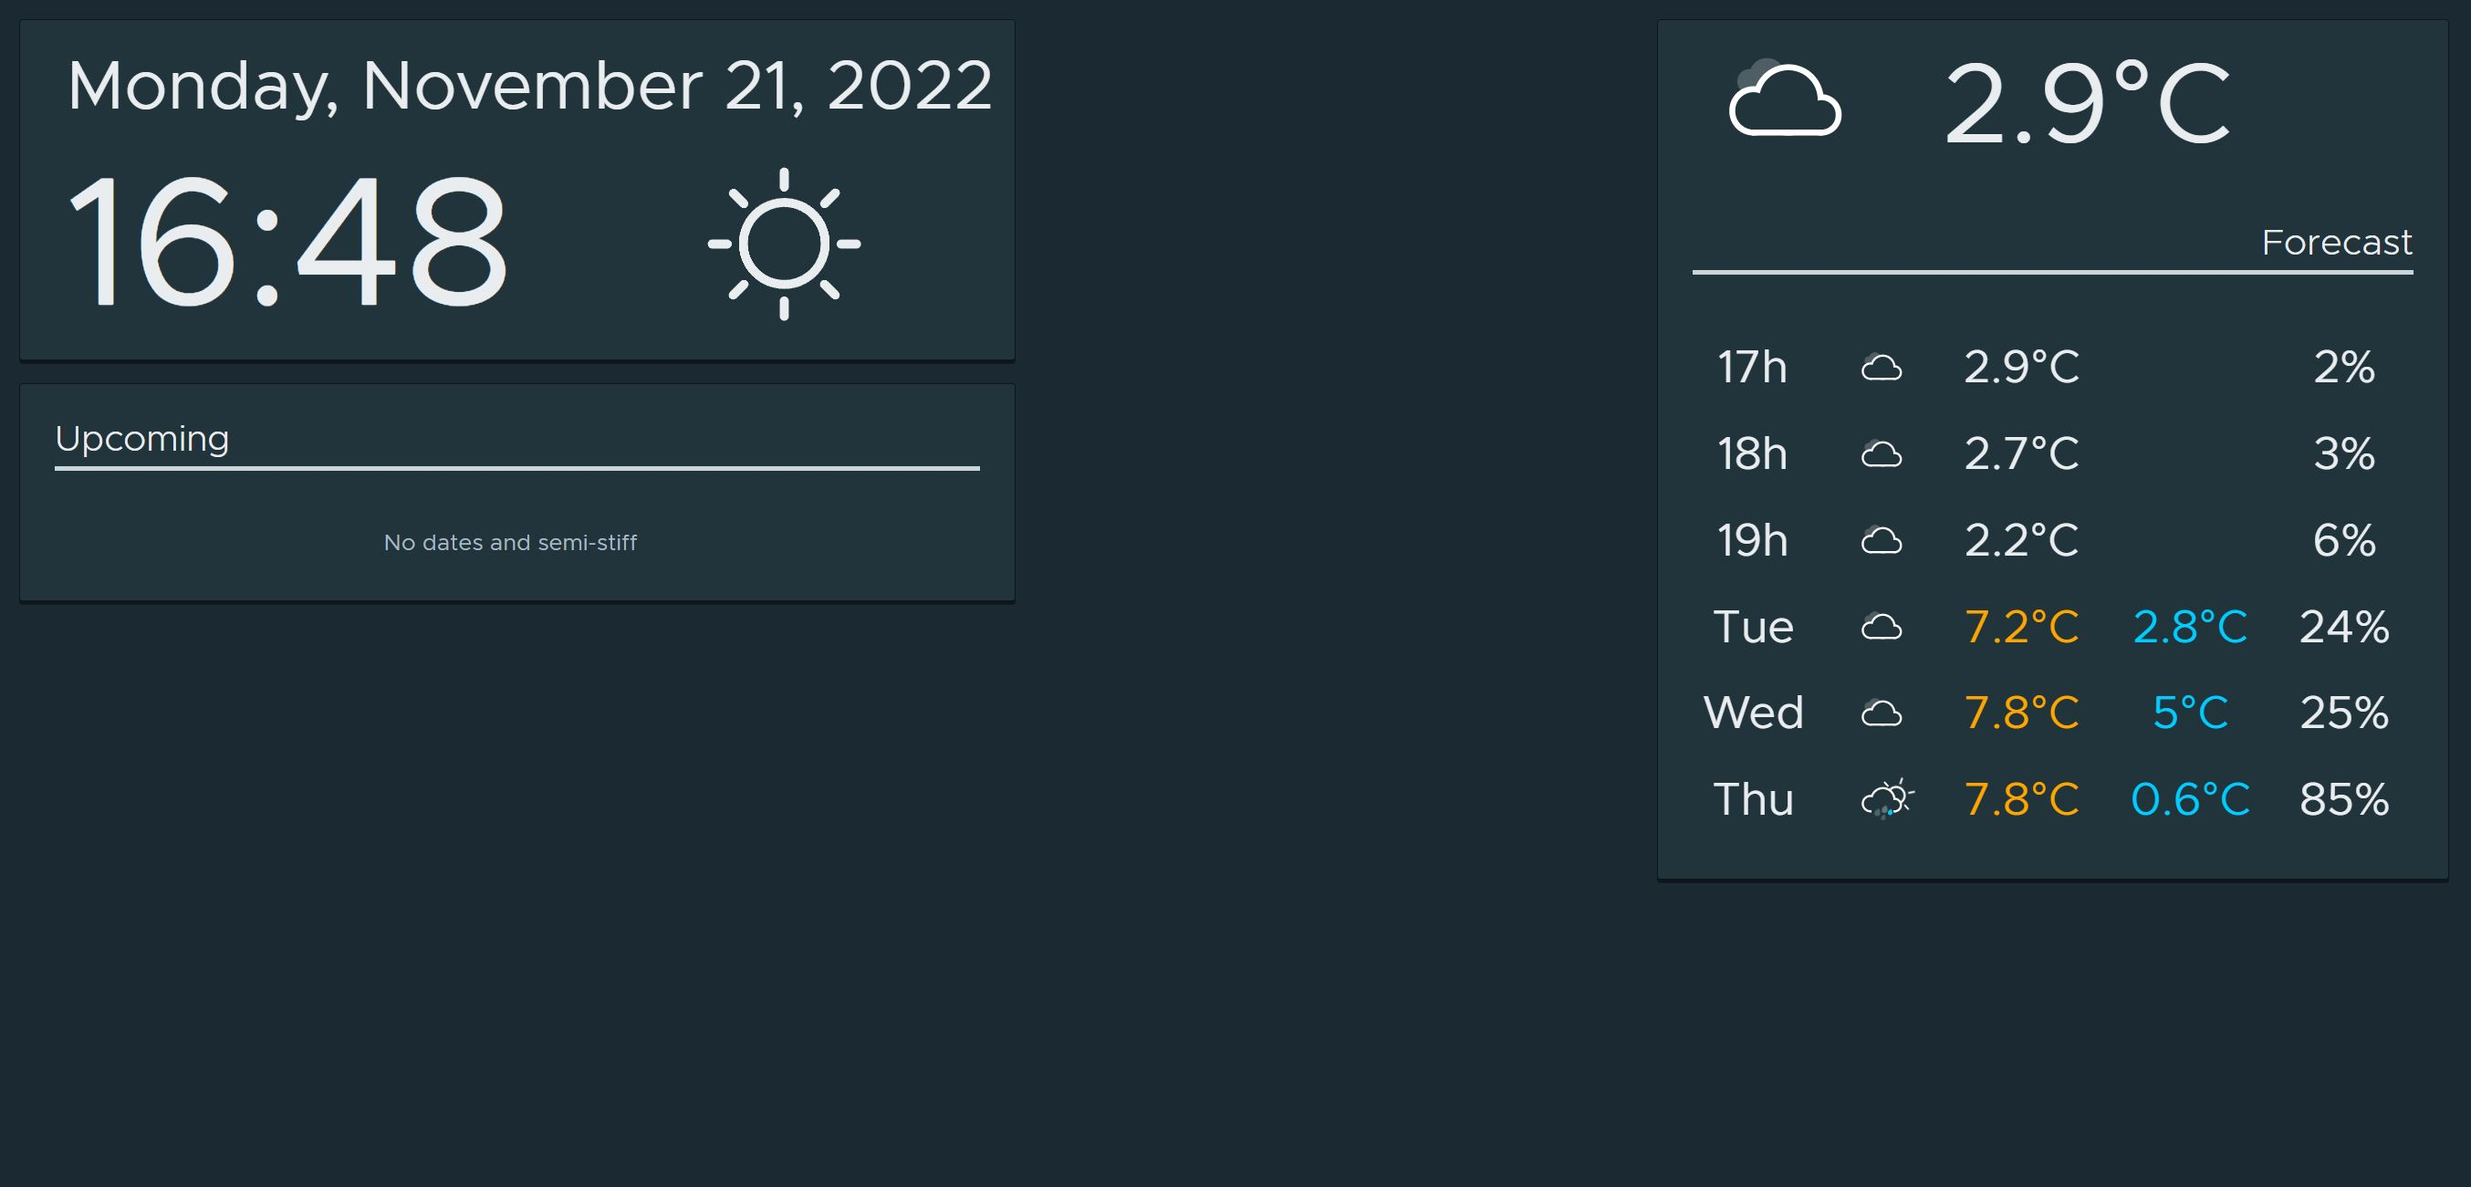
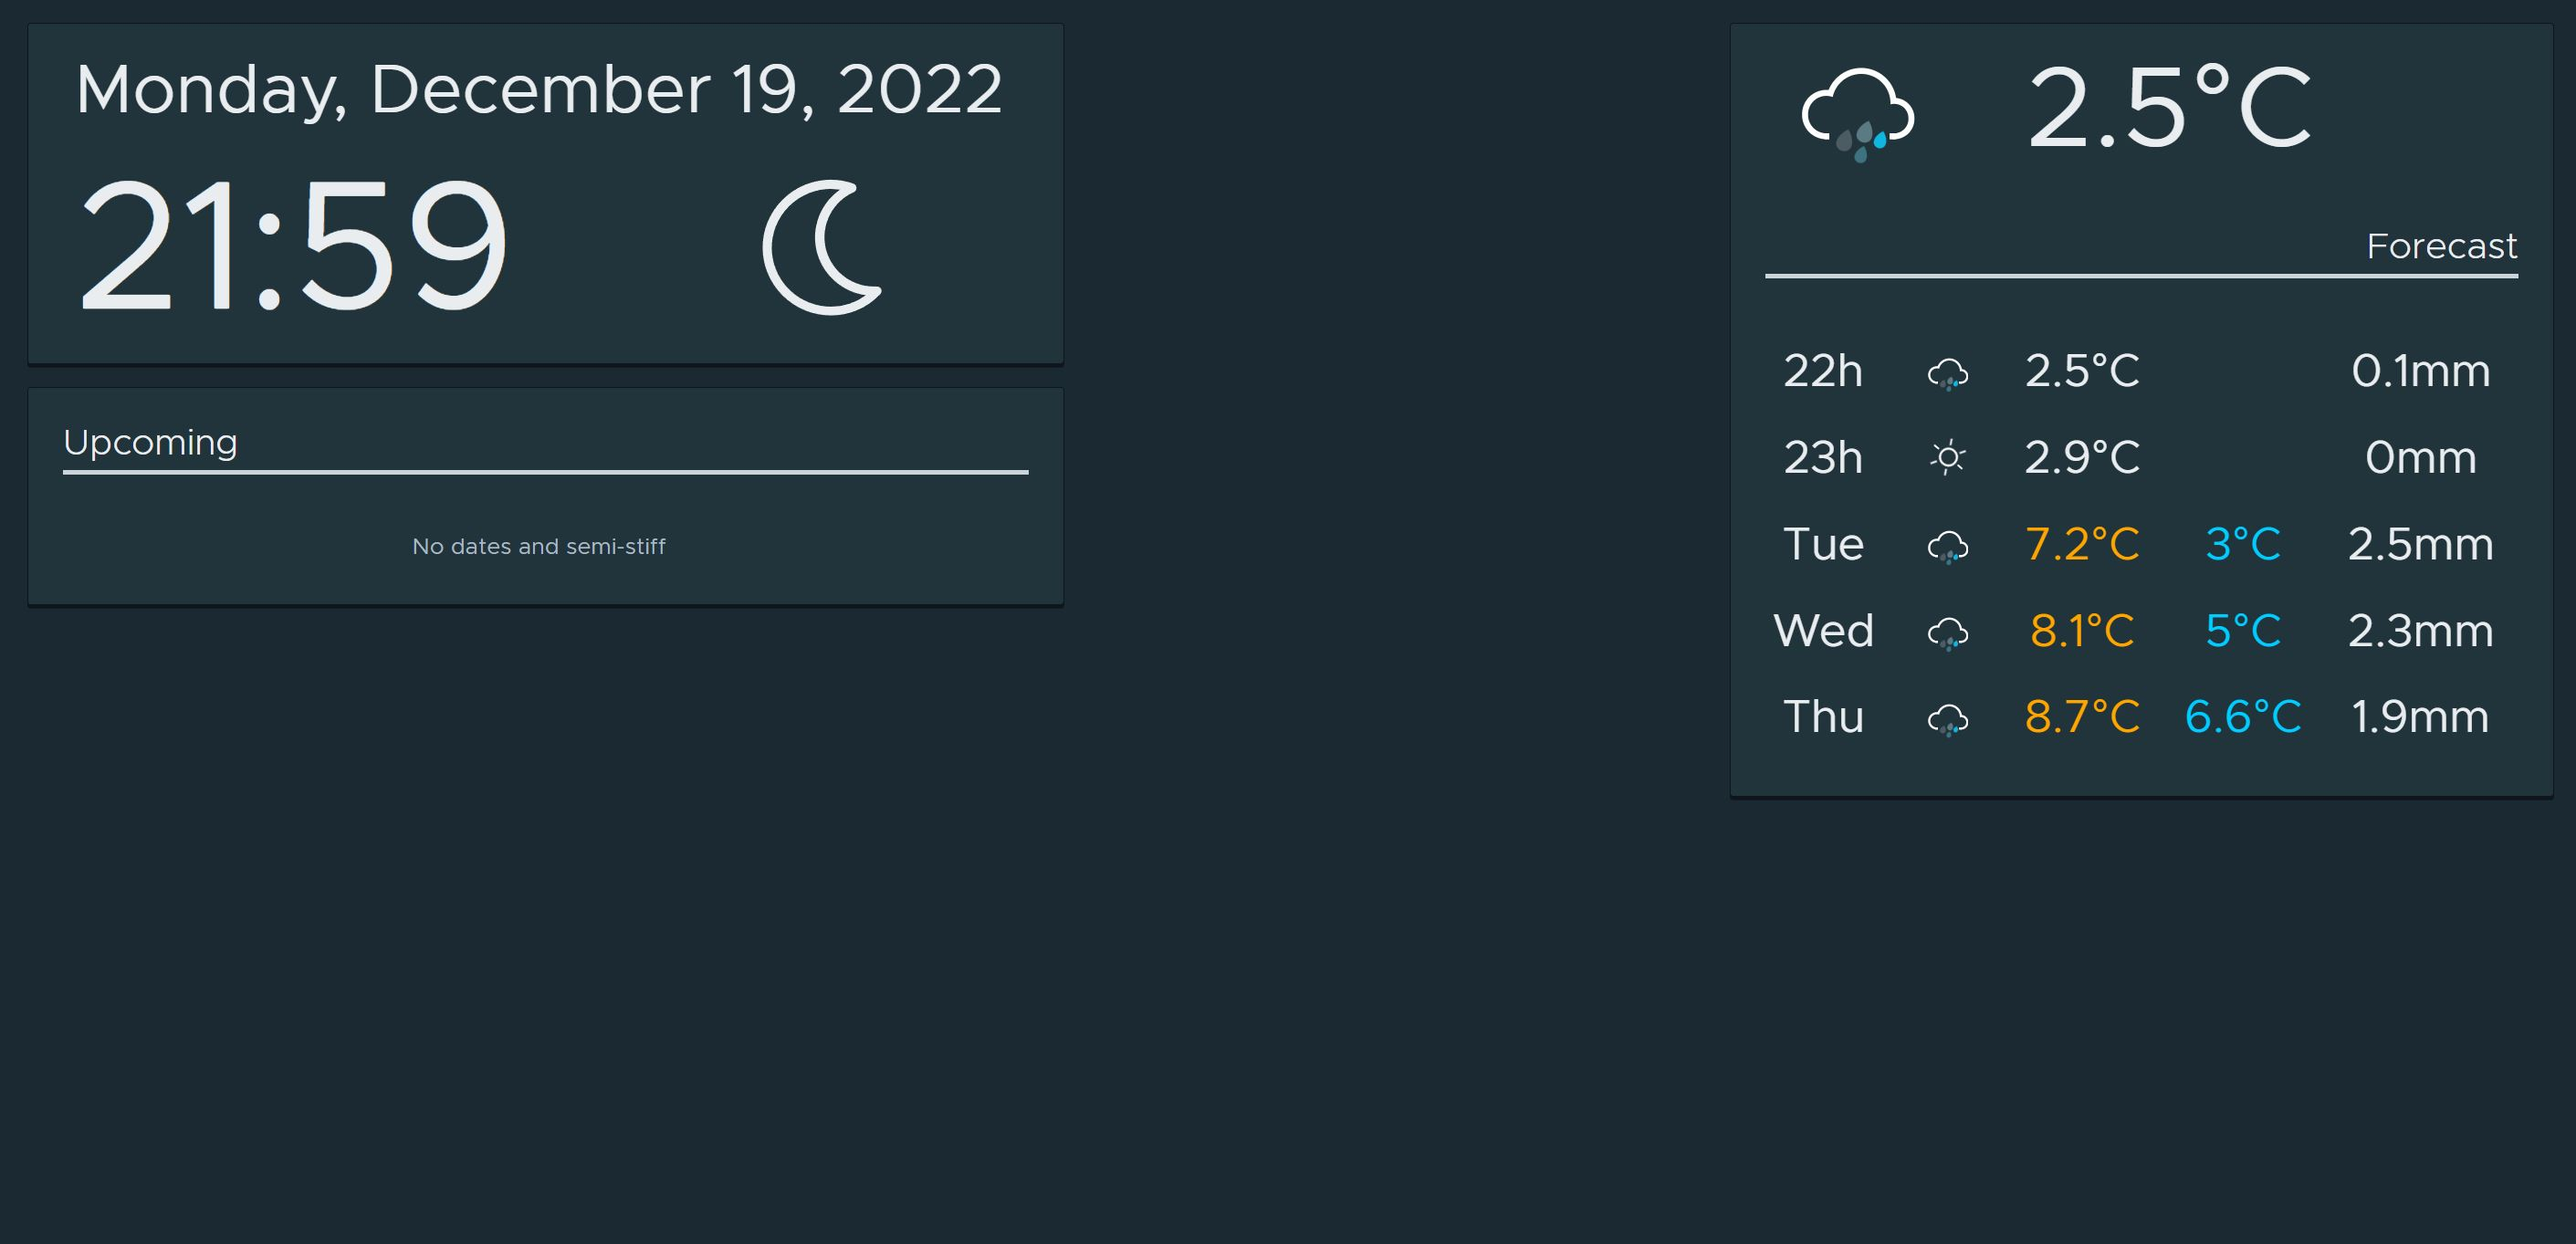
feat(api): move from accu weather api to the open meteo api

diff --git a/src/app/components/weather-icon/weather-icon.component.ts b/src/app/components/weather-icon/weather-icon.component.ts
@@ -6,34 +6,34 @@ import { Component, Input } from '@angular/core';
     <div
       class="icon"
       [ngClass]="{
-        sunny: iconCode >= 1 && iconCode <= 5 || iconCode == 30,
-        cloudy: iconCode >= 6 && iconCode <= 11 || iconCode >= 35 && iconCode <= 38,
-        rainy: iconCode == 12 || iconCode == 18,
-        'sun-shower': iconCode == 13 || iconCode == 14,
-        'thunder-storm': iconCode > 14 && iconCode <= 17,
-        flurries: iconCode >= 19 && iconCode <= 29
+        sunny: iconCode >= 0 && iconCode <= 3,
+        cloudy: iconCode >= 45 && iconCode <= 48,
+        rainy: iconCode >= 61 && iconCode <= 67 || iconCode >= 80 && iconCode <= 82,
+        'sun-shower': iconCode >= 51 && iconCode <= 57,
+        'thunder-storm': iconCode >= 95 && iconCode <= 99,
+        flurries: iconCode >= 71 && iconCode <= 77 || iconCode >= 85 && iconCode <= 86
       }"
       [style.font-size]="size"
     >
-      <div class="sun" *ngIf="iconCode >= 1 && iconCode <= 5 || iconCode == 30">
+      <div class="sun" *ngIf="iconCode >= 0 && iconCode <= 3">
         <div class="rays"></div>
       </div>
-      <div class="cloud" *ngIf="iconCode >= 6 && iconCode <= 11 || iconCode >= 35 && iconCode <= 38"></div>
-      <div class="cloud" *ngIf="iconCode >= 6 && iconCode <= 11 || iconCode >= 35 && iconCode <= 38"></div>
-      <div class="cloud" *ngIf="iconCode == 12 || iconCode == 18"></div>
-      <div class="rain" *ngIf="iconCode == 12 || iconCode == 18"></div>
-      <div class="cloud" *ngIf="iconCode == 13 || iconCode == 14"></div>
-      <div class="sun" *ngIf="iconCode == 13 || iconCode == 14">
+      <div class="cloud" *ngIf="iconCode >= 45 && iconCode <= 57"></div>
+      <div class="cloud" *ngIf="iconCode >= 45 && iconCode <= 57"></div>
+      <div class="cloud" *ngIf="iconCode >= 61 && iconCode <= 67 || iconCode >= 80 && iconCode <= 82"></div>
+      <div class="rain" *ngIf="iconCode >= 61 && iconCode <= 67 || iconCode >= 80 && iconCode <= 82"></div>
+      <div class="cloud" *ngIf="iconCode >= 51 && iconCode <= 57"></div>
+      <div class="sun" *ngIf="iconCode >= 51 && iconCode <= 57">
         <div class="rays"></div>
       </div>
-      <div class="rain" *ngIf="iconCode == 13 || iconCode == 14"></div>
-      <div class="cloud" *ngIf="iconCode > 14 && iconCode <= 17"></div>
-      <div class="lightning" *ngIf="iconCode > 14 && iconCode <= 17">
+      <div class="rain" *ngIf="iconCode >= 51 && iconCode <= 57"></div>
+      <div class="cloud" *ngIf="iconCode >= 95 && iconCode <= 99"></div>
+      <div class="lightning" *ngIf="iconCode >= 95 && iconCode <= 99">
         <div class="bolt"></div>
         <div class="bolt"></div>
       </div>
-      <div class="cloud" *ngIf="iconCode >= 19 && iconCode <= 29"></div>
-      <div class="snow" *ngIf="iconCode >= 19 && iconCode <= 29">
+      <div class="cloud" *ngIf="iconCode >= 71 && iconCode <= 77 || iconCode >= 85 && iconCode <= 86"></div>
+      <div class="snow" *ngIf="iconCode >= 71 && iconCode <= 77 || iconCode >= 85 && iconCode <= 86">
         <div class="flake"></div>
         <div class="flake"></div>
       </div>

diff --git a/src/app/app.component.ts b/src/app/app.component.ts
@@ -1,7 +1,7 @@
 import { formatDate } from '@angular/common';
 import { Component, OnDestroy, OnInit } from '@angular/core';
 
-import { Subscription, timer, zip } from 'rxjs';
+import { Subscription, timer } from 'rxjs';
 import { AppService } from './app.service';
 import { AppUtil } from './app.util';
 
@@ -34,13 +34,8 @@ export class AppComponent implements OnInit, OnDestroy {
     });
 
     this.weatherPeriodic = timer(0, 1000 * 60 * 60).subscribe(() => {
-      zip(
-        this.appService.getWeatherDayData(),
-        this.appService.getWeatherHoursData()
-      ).subscribe({
-        next: (data) => {
-          this.transformWeatherData(this.parseWeatherData(data));
-        },
+      this.appService.getWeatherData().subscribe({
+        next: (data) => this.transformWeatherData(this.parseWeatherData(data)),
         error: (error) => console.error(error),
       });
     });
@@ -64,23 +59,29 @@ export class AppComponent implements OnInit, OnDestroy {
       daysForecast: new Array(),
       hoursForecast: new Array(),
     };
-    for (const elem of data[0].DailyForecasts) {
+
+    const now = new Date();
+    for (var i = 0; i < data.daily.time.length; i++) {
       result.daysForecast.push({
-        timestamp: elem.Date,
-        minimumTemp: elem.Temperature.Minimum.Value,
-        maximumTemp: elem.Temperature.Maximum.Value,
-        icon: elem.Day.Icon,
-        rainProb: elem.Day.RainProbability || 0,
+        timestamp: data.daily.time[i],
+        minimumTemp: data.daily.temperature_2m_min[i],
+        maximumTemp: data.daily.temperature_2m_max[i],
+        icon: data.daily.weathercode[i],
+        rain: data.daily.rain_sum[i],
       });
     }
 
-    for (const elem of data[1]) {
-      result.hoursForecast.push({
-        timestamp: elem.DateTime,
-        temperature: elem.Temperature.Value,
-        icon: elem.WeatherIcon,
-        rainProb: elem.RainProbability || 0,
-      });
+    // 24, because in the time array, the first 24 elements are timestamps from the current day, the can be skipped
+    for (var i = 0; i < 24; i++) {
+      const time = new Date(data.hourly.time[i]);
+      if (time.getHours() > now.getHours() && time.getHours() <= now.getHours() + 3) {
+        result.hoursForecast.push({
+          timestamp: time,
+          temperature: data.hourly.temperature_2m[i],
+          icon: data.hourly.weathercode[i],
+          rain: data.hourly.rain[i],
+        });
+      }
     }
 
     return result;
@@ -88,7 +89,7 @@ export class AppComponent implements OnInit, OnDestroy {
 
   private transformWeatherData(data: any) {
     this.daysForecast = data.daysForecast.slice(1, 4);
-    this.hoursForecast = data.hoursForecast.slice(0, 3);
+    this.hoursForecast = data.hoursForecast;
 
     const currentTempDate = this.hoursForecast[0];
     this.currentTemperature = currentTempDate.temperature;
@@ -107,6 +108,6 @@ export class AppComponent implements OnInit, OnDestroy {
       });
     }
 
-    this.appointments = this.util.sortAppointments(temp);
+    // this.appointments = this.util.sortAppointments(temp);
   }
 }

diff --git a/src/app/app.service.ts b/src/app/app.service.ts
@@ -9,19 +9,22 @@ declare var google: any;
 
 @Injectable()
 export class AppService {
-  private readonly ACCU_WEATHER_DAY_FORECAST = `${environment.accuWeatherBaseURL}/daily/5day/${environment.accuWeatherCityKey}?apikey=${environment.accuWeatherApiKey}&metric=true&details=true`;
-  private readonly ACCU_WEATHER_HOURS_FORECAST = `${environment.accuWeatherBaseURL}/hourly/12hour/${environment.accuWeatherCityKey}?apikey=${environment.accuWeatherApiKey}&metric=true&details=true`;
+  private readonly OPEN_METEO_FORECAST;
 
   private googleTokenClient!: any;
 
-  constructor(private http: HttpClient) {}
+  private todayStart;
+  private todayEnd;
 
-  getWeatherDayData(): Observable<any> {
-    return this.http.get(this.ACCU_WEATHER_DAY_FORECAST);
+  constructor(private http: HttpClient) {
+    this.todayStart = new Date();
+    this.todayEnd = new Date();
+
+    this.OPEN_METEO_FORECAST = `https://api.open-meteo.com/v1/forecast?latitude=${environment.openMeteoLatitude}&longitude=${environment.openMeteoLongitude}&hourly=temperature_2m,rain,weathercode&daily=weathercode,temperature_2m_max,temperature_2m_min,rain_sum&timezone=Europe%2FBerlin&start_date=${this.todayStart.toISOString().substring(0, 10)}&end_date=${new Date(this.todayStart.getTime() + 1000 * 60 * 60 * 24 * 3).toISOString().substring(0, 10)}`;  
   }
 
-  getWeatherHoursData(): Observable<any> {
-    return this.http.get(this.ACCU_WEATHER_HOURS_FORECAST);
+  getWeatherData(): Observable<any> {
+    return this.http.get(this.OPEN_METEO_FORECAST);
   }
 
   async getTodayAppointments(): Promise<any> {
@@ -42,18 +45,15 @@ export class AppService {
           continue;
         }
         // Create a request for each calendar to retrieve all events of the day and add it to a bulk action
-        const todayStart = new Date();
-        const todayEnd = new Date();
-
-        todayStart.setHours(0);
-        todayStart.setMinutes(0);
-        todayEnd.setHours(23);
-        todayEnd.setMinutes(59);
+        this.todayStart.setHours(0);
+        this.todayStart.setMinutes(0);
+        this.todayEnd.setHours(23);
+        this.todayEnd.setMinutes(59);
 
         const getEvents = gapi.client.calendar.events.list({
           calendarId: c.id,
-          timeMin: todayStart.toISOString(),
-          timeMax: todayEnd.toISOString(),
+          timeMin: this.todayStart.toISOString(),
+          timeMax: this.todayEnd.toISOString(),
           singleEvents: true,
           orderBy: 'startTime',
         });

diff --git a/src/app/app.component.html b/src/app/app.component.html
@@ -67,14 +67,14 @@
                                     <td><weather-icon [iconCode]="hour.icon" [size]="'0.25rem'"></weather-icon></td>
                                     <td><span class="weather-day-time-label">{{hour.temperature}}°C</span></td>
                                     <td></td>
-                                    <td><span class="weather-day-time-label">{{hour.rainProb}}%</span></td>
+                                    <td><span class="weather-day-time-label">{{hour.rain}}mm</span></td>
                                 </tr>
                                 <tr *ngFor="let day of daysForecast">
                                     <td><span class="weather-day-time-label">{{day.timestamp | date: 'ccc'}}</span></td>
                                     <td><weather-icon [iconCode]="day.icon" [size]="'0.25rem'"></weather-icon></td>
                                     <td><span class="weather-day-time-label" [style.color]="'orange'">{{day.maximumTemp}}°C</span></td>
                                     <td><span class="weather-day-time-label" [style.color]="'#0cf'">{{day.minimumTemp}}°C</span></td>
-                                    <td><span class="weather-day-time-label">{{day.rainProb}}%</span></td>
+                                    <td><span class="weather-day-time-label">{{day.rain}}mm</span></td>
                                 </tr>
                             </tbody>
                         </table>

diff --git a/src/assets/setEnv.ts b/src/assets/setEnv.ts
@@ -21,9 +21,8 @@ const content = `
 export const environment = {
   production: ${isProd},
 
-  accuWeatherBaseURL: 'https://dataservice.accuweather.com/forecasts/v1',
-  accuWeatherApiKey: '${process.env["ACCU_WEATHER_API_KEY"]}',
-  accuWeatherCityKey: '168717',
+  openMeteoLatitude: '51.32',
+  openMeteoLongitude: '9.50',
 
   googleCalendarBaseURL: ["https://www.googleapis.com/discovery/v1/apis/calendar/v3/rest"],
   googleClientId: '${process.env["GOOGLE_CALENDAR_CLIENT_ID"]}',
